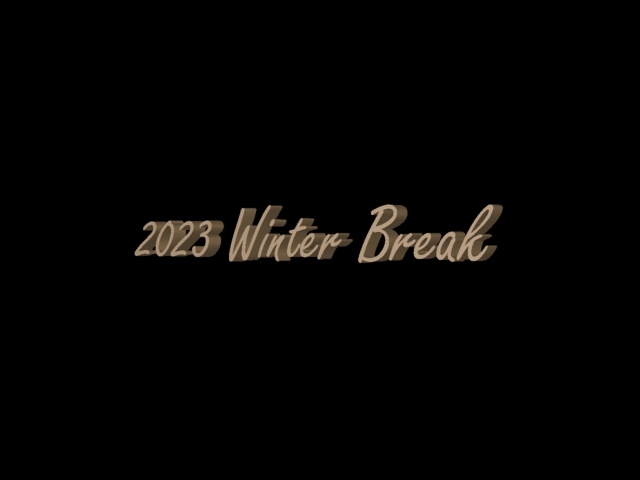
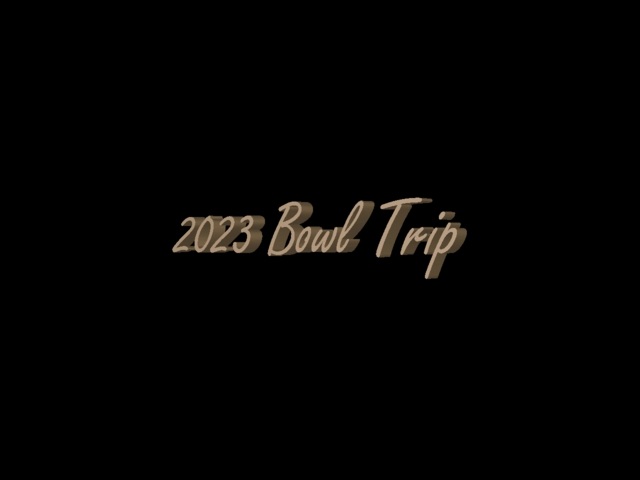
Add 2024 Concert Trip

Changed region(s): [[0.1875, 0.4062, 0.7812, 0.5938]]

diff --git a/index.html b/index.html
@@ -394,11 +394,11 @@
 
             <tr class="menu-item">
               <td class="menu-item-img"><a href="2023SanAntonio/" target="_blank">
-                <img src="2023SanAntonio/cover.jpg" width="200" height="150" alt="2023 Winter Break"><br>
+                <img src="2023SanAntonio/cover.jpg" width="200" height="150" alt="2023 Bowl Trip"><br>
                 <span class="menu-item-img-desc">San Antonio</span>
               </a></td>
               <td class="menu-item-txt">
-                <span class="menu-item-txt-trip">2023 Winter Break</span><br>
+                <span class="menu-item-txt-trip">2023 Bowl Trip</span><br>
                 <span class="menu-item-txt-travel">
                   <img src="images/car.png" alt="Car" height="9">&nbsp;TX
                 </span><br>

diff --git a/js/description_trip.js b/js/description_trip.js
@@ -112,7 +112,6 @@ function getDescription(path) {
 
         // One-year Winter Break cases
         case "2015NewMexico":
-        case "2023SanAntonio":
           trip = dir[0].substring(1, 5) + " Winter Break";
           break;
 
@@ -158,6 +157,12 @@ function getDescription(path) {
         case "2017Dusseldorf":
         case "2018Dusseldorf":
           trip = "Germany compilation";
+          break;
+        case "2023SanAntonio":
+          trip = "2023 Bowl Trip";
+          break;
+        case "2024LosAngeles":
+          trip = "2024 Concert Trip";
           break;
       }
 

diff --git a/2023SanAntonio/index.html b/2023SanAntonio/index.html
@@ -3,7 +3,7 @@
   <head>
     <meta charset="utf-8">
     <base href="..">
-    <title>2023 Winter Break</title>
+    <title>2023 Bowl Trip</title>
     <link rel="stylesheet" href="css/slideshow.css">
     <script src="js/slideshow.js"></script>
     <script src="js/description.js"></script>
@@ -12,7 +12,7 @@
     <table id="outerTable">
       <tr>
         <td>
-          <span id="slideTitle">2023 Winter Break</span>
+          <span id="slideTitle">2023 Bowl Trip</span>
         </td>
       </tr>
       <tr>
